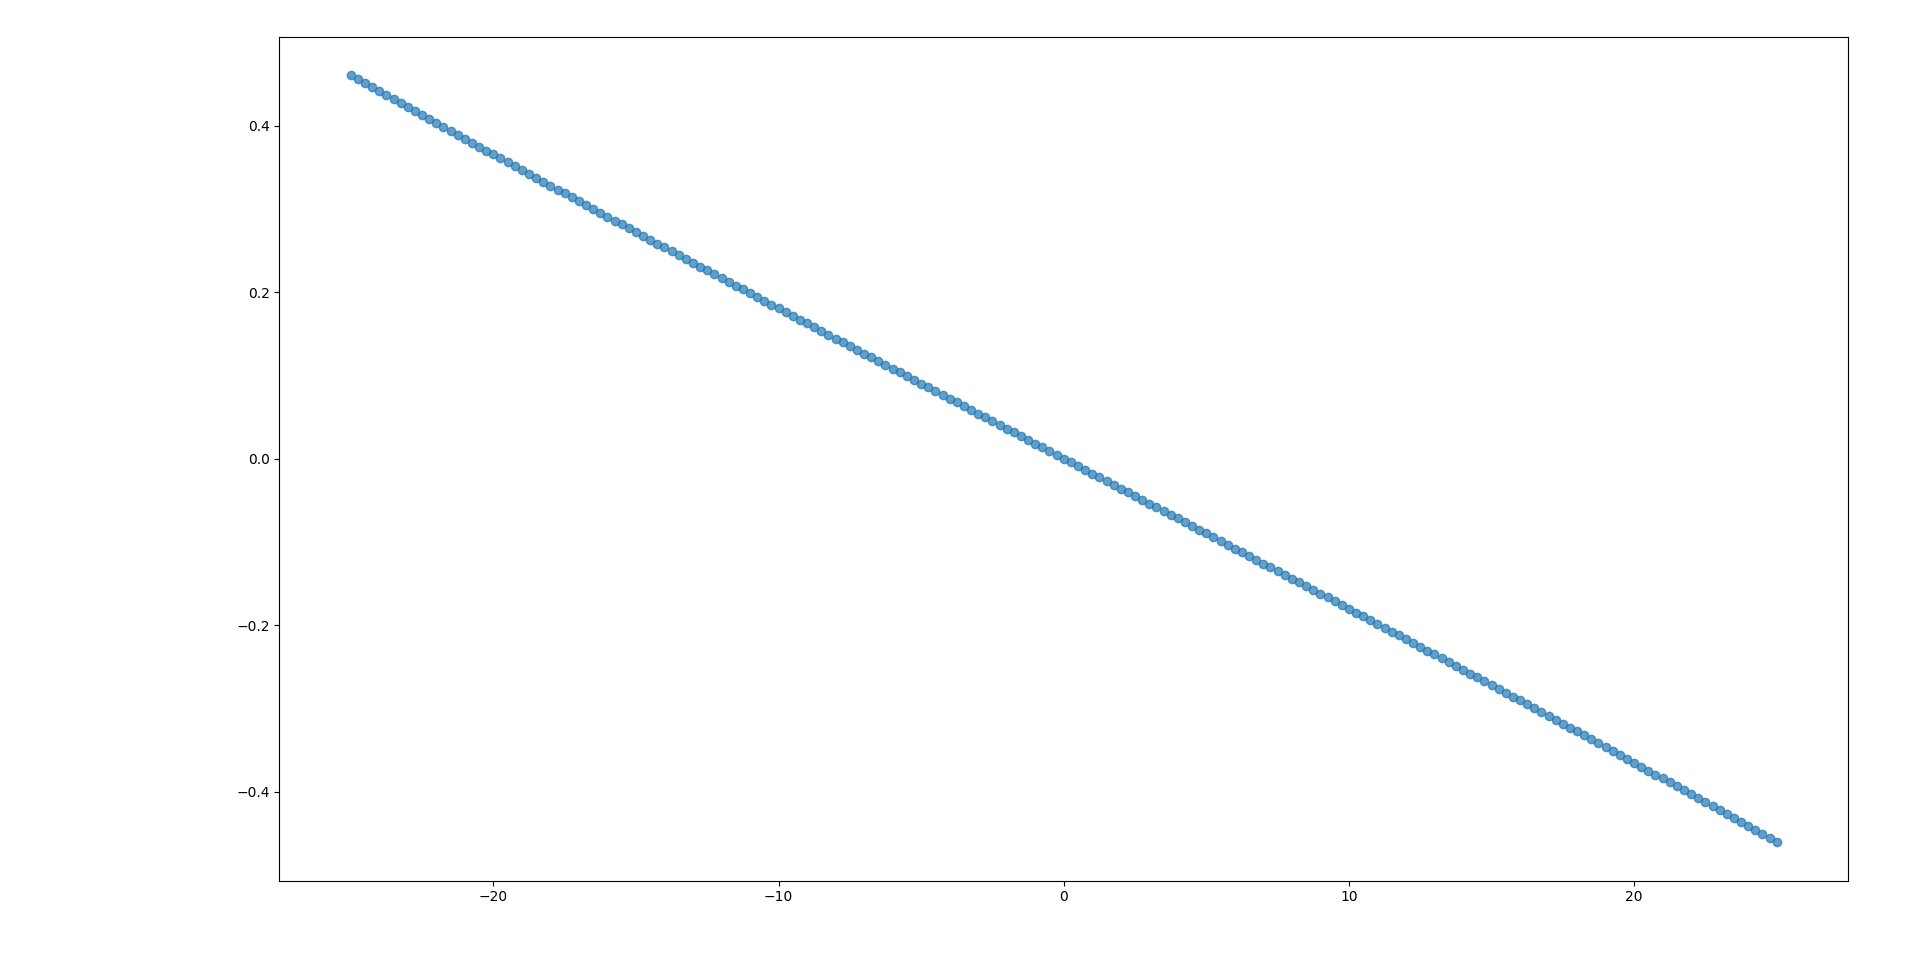
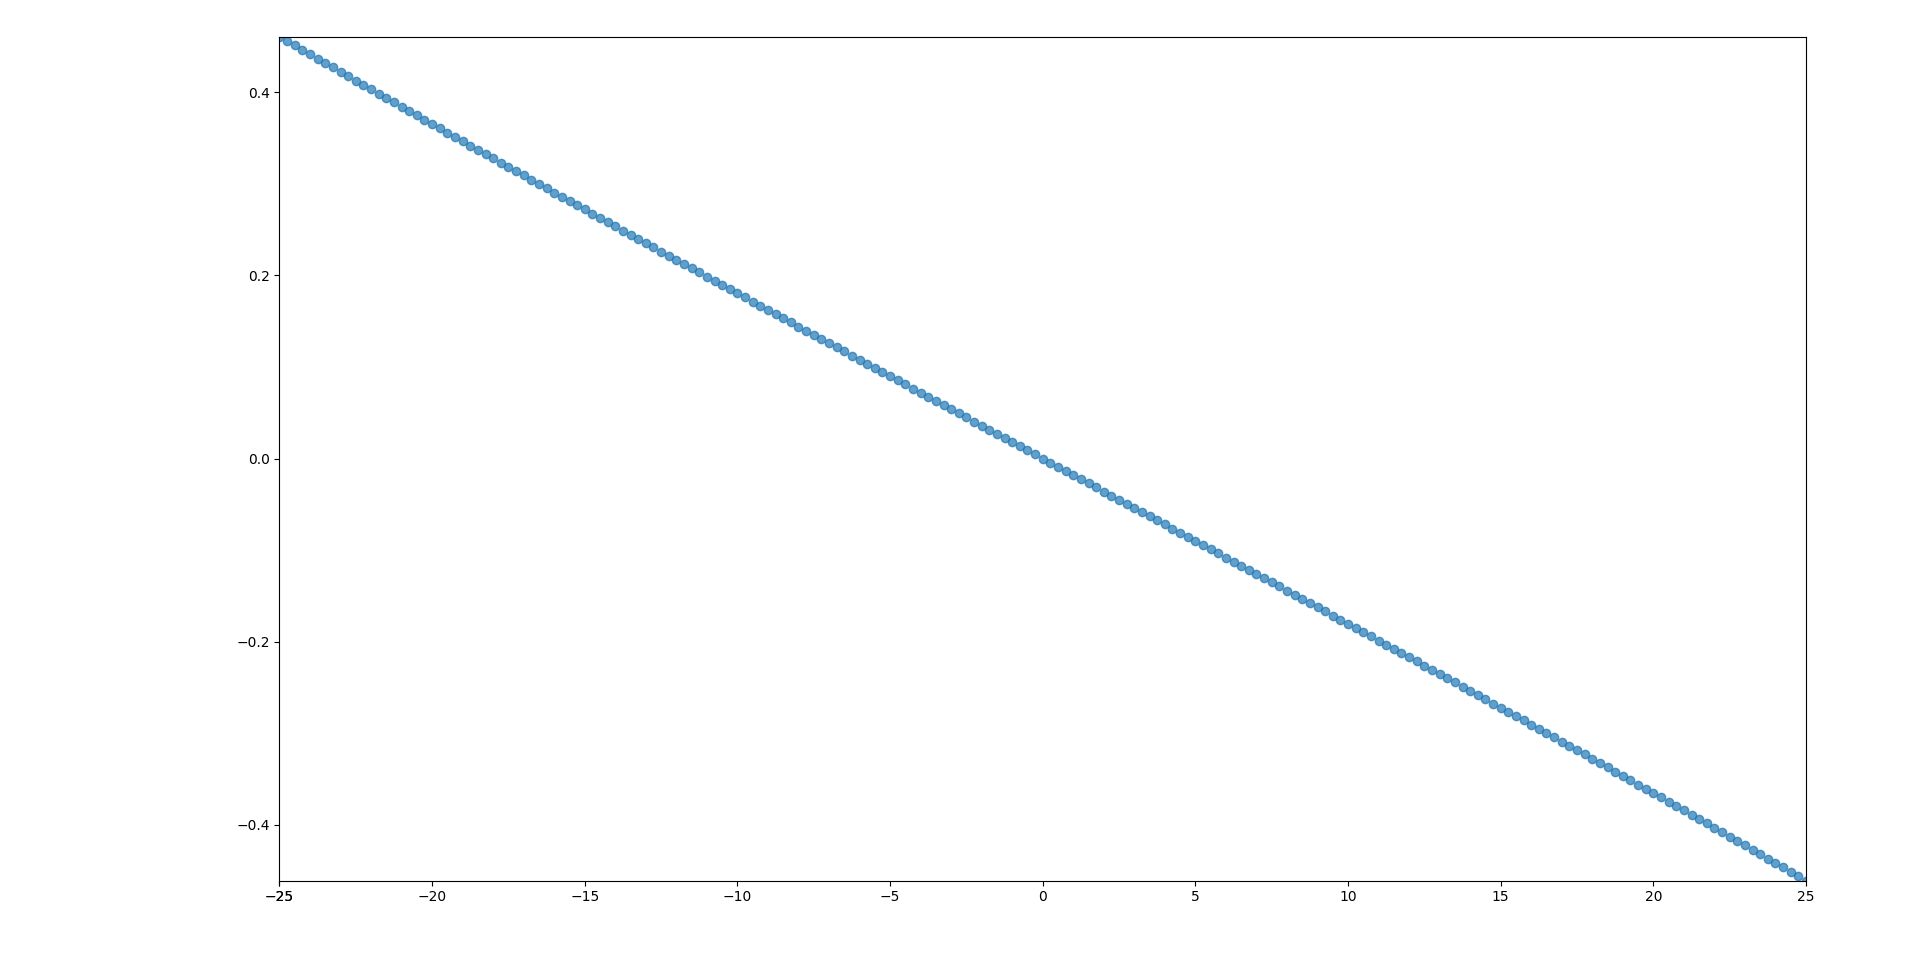
plot formatting xmin xmax ymin ymax

diff --git a/E_perp_vs_par_Field.py b/E_perp_vs_par_Field.py
@@ -106,7 +106,7 @@ def main():
 
     plt.tight_layout()  # Adjust spacing
     plt.show()
-    '''
+    
     # Create subplots
     fig, ax = plt.subplots(1, 1, figsize=(4, 4))  # 1 row, 1 columns
 
@@ -118,12 +118,13 @@ def main():
     ax.set_title('del EX/ del EZ, EY=0, longitudinal disp 1A')
     ax.set_xlabel('X_CT')
 
-    ax.set_ylim(ymin=-20, ymax=20)
+    ax.set_ylim(ymin=-2, ymax=2)
+    plt.xlim(-20,20)
 
     plt.tight_layout()  # Adjust spacing
     plt.show()
     
-
+    '''
     # Create subplots
     fig, ax = plt.subplots(1, 1, figsize=(4, 4))  # 1 row, 1 columns
 
@@ -133,8 +134,10 @@ def main():
     #ax.set_title('del EZ/ del EX, EY=0, longitudinal disp 1A')
     #ax.set_xlabel(r'coordinate of charge trap, $R_{CT}$')
 
-    ax.set_ylim(ymin=-3, ymax=3)
-
+    ax.set_ylim(ymin=np.min(ratio2), ymax=np.max(ratio2))
+    ax.set_xlim(xmin=R_CT[0], xmax=R_CT[-1])
+    XTICKS = [-25,-20,-25,-15,-10,-5,0, 5, 10, 15, 20, 25]
+    ax.set_xticks(XTICKS)
     plt.tight_layout()  # Adjust spacing
     plt.show()
 

diff --git a/E_perp_vs_par_Field_transverse_disp.py b/E_perp_vs_par_Field_transverse_disp.py
@@ -86,7 +86,10 @@ def main():
     #ax.set_xlabel('X_CT')
 
     #ax.set_ylim(ymin=-50, ymax=50)
-
+    ax.set_xlim(xmin=R_CT[0], xmax=R_CT[-1])
+    ax.set_ylim(ymin=ratio[-1], ymax=ratio[0])
+    XTICKS = [-25,-20,-25,-15,-10,-5,0, 5, 10, 15, 20, 25]
+    ax.set_xticks(XTICKS)
     plt.tight_layout()  # Adjust spacing
     plt.show()
 
